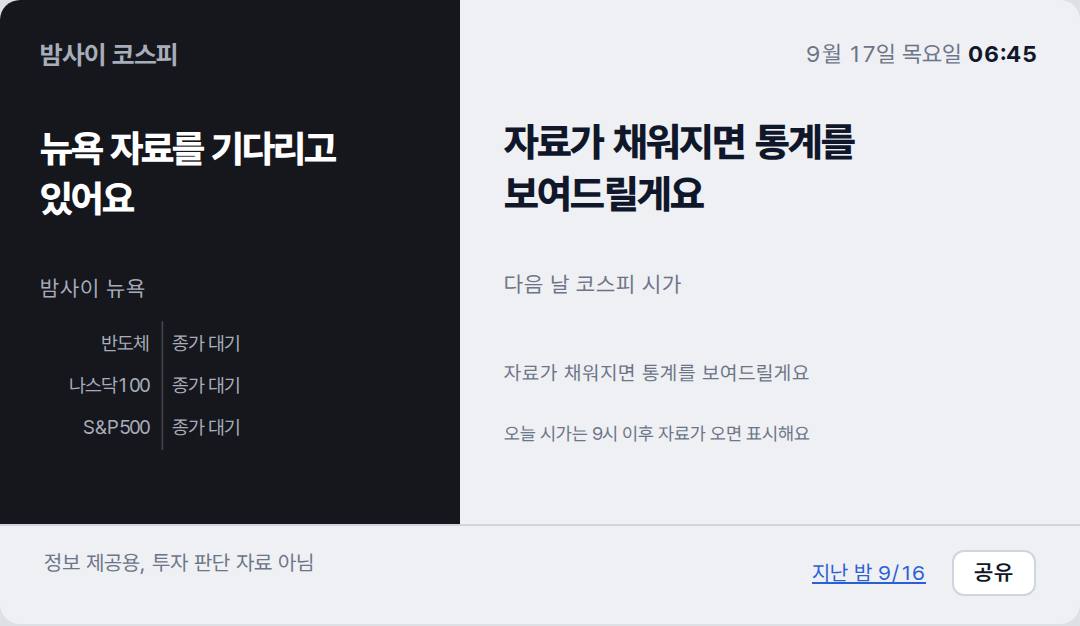
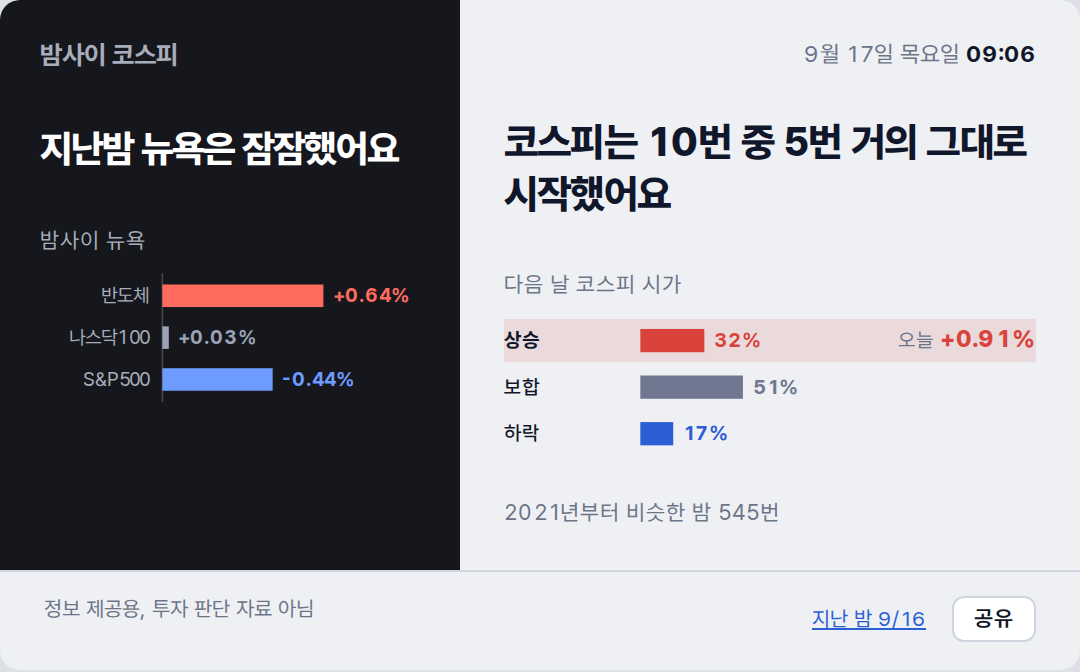
deploy: 25a71b42164be134cda9a9bcc22c21e8d2dd8ef2

diff --git a/2026-09-17/index.html b/2026-09-17/index.html
@@ -2,7 +2,7 @@
 <title>밤사이 코스피 · 2026-09-17</title>
 <meta name="description" content="전일 코스피 마감에서 밤사이 뉴욕을 거쳐 오늘 코스피 시가까지, 한 장.">
 <meta property="og:type" content="article"><meta property="og:site_name" content="밤사이 코스피"><meta property="og:url" content="https://mjs0611.github.io/kospi-relay/2026-09-17/">
-<meta property="og:title" content="뉴욕 자료를 기다리고 있어요"><meta property="og:description" content="자료가 채워지면 통계를 보여드릴게요">
+<meta property="og:title" content="지난밤 뉴욕은 잠잠했어요"><meta property="og:description" content="코스피는 10번 중 5번 거의 그대로 시작했어요">
 <meta property="og:image" content="https://mjs0611.github.io/kospi-relay/2026-09-17/relay.png"><meta property="og:image:width" content="1080"><meta name="twitter:card" content="summary_large_image">
 <link rel="stylesheet" href="https://cdn.jsdelivr.net/gh/orioncactus/pretendard@v1.3.9/dist/web/variable/pretendardvariable-dynamic-subset.min.css">
 <style>
@@ -26,24 +26,36 @@ footer a{color:#2C5FD6}
 .share{margin-left:10px;border:1px solid #CFD5DE;background:#FFF;color:#10172A;border-radius:6px;padding:4px 10px;font:600 11px var(--sans);cursor:pointer}
 @media (max-width:480px){.sheet{grid-template-columns:1fr}.cond{margin-top:18px}.claim{margin-top:4px}}
 </style></head><body><div class="sheet">
-<section class="night"><p class="brand">밤사이 코스피</p><p class="cond">뉴욕 자료를 기다리고 있어요</p><p class="lab">밤사이 뉴욕</p><svg viewBox="0 0 236 84" xmlns="http://www.w3.org/2000/svg" font-family="var(--sans)" font-size="12">
+<section class="night"><p class="brand">밤사이 코스피</p><p class="cond">지난밤 뉴욕은 잠잠했어요</p><p class="lab">밤사이 뉴욕</p><svg viewBox="0 0 236 84" xmlns="http://www.w3.org/2000/svg" font-family="var(--sans)" font-size="12">
 <line x1="76" y1="2" x2="76" y2="82" stroke="var(--rule)" stroke-width="1"/>
 <text x="68" y="20" text-anchor="end" fill="var(--muted)">반도체</text>
-<text x="82" y="20" fill="var(--muted)">종가 대기</text>
+<rect x="76" y="9" width="100.0" height="14" fill="var(--up)"/>
+<text x="182.0" y="20" fill="var(--up)" font-weight="700">+0.64%</text>
 <text x="68" y="46" text-anchor="end" fill="var(--muted)">나스닥100</text>
-<text x="82" y="46" fill="var(--muted)">종가 대기</text>
+<rect x="76" y="35" width="4.0" height="14" fill="var(--flat)"/>
+<text x="86.0" y="46" fill="var(--flat)" font-weight="700">+0.03%</text>
 <text x="68" y="72" text-anchor="end" fill="var(--muted)">S&P500</text>
-<text x="82" y="72" fill="var(--muted)">종가 대기</text>
+<rect x="76" y="61" width="68.5" height="14" fill="var(--down)"/>
+<text x="150.5" y="72" fill="var(--down)" font-weight="700">-0.44%</text>
 </svg></section>
-<section class="day"><p class="stamp">9월 17일 목요일 <b>06:45</b></p><p class="claim">자료가 채워지면 통계를 보여드릴게요</p><p class="lab">다음 날 코스피 시가</p><svg viewBox="0 0 320 100" xmlns="http://www.w3.org/2000/svg" font-family="var(--sans)" font-size="12">
-<text x="0" y="40" fill="var(--muted)">자료가 채워지면 통계를 보여드릴게요</text>
-<text x="0" y="76" fill="var(--muted)" font-size="11">오늘 시가는 9시 이후 자료가 오면 표시해요</text>
-</svg></section>
+<section class="day"><p class="stamp">9월 17일 목요일 <b>09:06</b></p><p class="claim">코스피는 10번 중 5번 거의 그대로 시작했어요</p><p class="lab">다음 날 코스피 시가</p><svg viewBox="0 0 320 100" xmlns="http://www.w3.org/2000/svg" font-family="var(--sans)" font-size="12">
+<rect x="0" y="3" width="320" height="26" fill="var(--up)" opacity=".12"/>
+<text x="0" y="20" fill="var(--ink)" font-weight="700">상승</text>
+<rect x="82" y="9" width="38.5" height="14" fill="var(--up)"/>
+<text x="126.5" y="20" fill="var(--up)" font-weight="700">32%</text>
+<text x="320" y="20" text-anchor="end" fill="var(--ink)"><tspan fill="var(--muted)">오늘 </tspan><tspan font-weight="800" font-size="14" fill="var(--up)">+0.91%</tspan></text>
+<text x="0" y="48" fill="var(--ink)" font-weight="500">보합</text>
+<rect x="82" y="37" width="61.7" height="14" fill="var(--flat)"/>
+<text x="149.7" y="48" fill="var(--flat)" font-weight="700">51%</text>
+<text x="0" y="76" fill="var(--ink)" font-weight="500">하락</text>
+<rect x="82" y="65" width="19.8" height="14" fill="var(--down)"/>
+<text x="107.8" y="76" fill="var(--down)" font-weight="700">17%</text>
+</svg><p class="cap">2021년부터 비슷한 밤 545번</p></section>
 <footer><span>정보 제공용, 투자 판단 자료 아님</span><span style="white-space:nowrap"><a href="../2026-09-16/">지난 밤 9/16</a> <button class="share" type="button">공유</button></span></footer>
 <script>
 /* 공유: Web Share가 있으면 시스템 공유 시트, 없으면 링크 복사. 링크는 이 날짜 페이지(OG 카드 붙음) */
 document.querySelector('.share').addEventListener('click', async function () {
-  var url = 'https://mjs0611.github.io/kospi-relay/2026-09-17/', text = "뉴욕 자료를 기다리고 있어요. 자료가 채워지면 통계를 보여드릴게요";
+  var url = 'https://mjs0611.github.io/kospi-relay/2026-09-17/', text = "지난밤 뉴욕은 잠잠했어요. 코스피는 10번 중 5번 거의 그대로 시작했어요";
   try { if (navigator.share) { await navigator.share({ title: '밤사이 코스피', text: text, url: url }); return; } } catch (e) { return; }
   try { await navigator.clipboard.writeText(text + '
 ' + url); this.textContent = '링크 복사됨'; } catch (e) { location.href = url; }

diff --git a/index.html b/index.html
@@ -2,7 +2,7 @@
 <title>밤사이 코스피 · 2026-09-17</title>
 <meta name="description" content="전일 코스피 마감에서 밤사이 뉴욕을 거쳐 오늘 코스피 시가까지, 한 장.">
 <meta property="og:type" content="article"><meta property="og:site_name" content="밤사이 코스피"><meta property="og:url" content="https://mjs0611.github.io/kospi-relay/2026-09-17/">
-<meta property="og:title" content="뉴욕 자료를 기다리고 있어요"><meta property="og:description" content="자료가 채워지면 통계를 보여드릴게요">
+<meta property="og:title" content="지난밤 뉴욕은 잠잠했어요"><meta property="og:description" content="코스피는 10번 중 5번 거의 그대로 시작했어요">
 <meta property="og:image" content="https://mjs0611.github.io/kospi-relay/2026-09-17/relay.png"><meta property="og:image:width" content="1080"><meta name="twitter:card" content="summary_large_image">
 <link rel="stylesheet" href="https://cdn.jsdelivr.net/gh/orioncactus/pretendard@v1.3.9/dist/web/variable/pretendardvariable-dynamic-subset.min.css">
 <style>
@@ -26,24 +26,36 @@ footer a{color:#2C5FD6}
 .share{margin-left:10px;border:1px solid #CFD5DE;background:#FFF;color:#10172A;border-radius:6px;padding:4px 10px;font:600 11px var(--sans);cursor:pointer}
 @media (max-width:480px){.sheet{grid-template-columns:1fr}.cond{margin-top:18px}.claim{margin-top:4px}}
 </style></head><body><div class="sheet">
-<section class="night"><p class="brand">밤사이 코스피</p><p class="cond">뉴욕 자료를 기다리고 있어요</p><p class="lab">밤사이 뉴욕</p><svg viewBox="0 0 236 84" xmlns="http://www.w3.org/2000/svg" font-family="var(--sans)" font-size="12">
+<section class="night"><p class="brand">밤사이 코스피</p><p class="cond">지난밤 뉴욕은 잠잠했어요</p><p class="lab">밤사이 뉴욕</p><svg viewBox="0 0 236 84" xmlns="http://www.w3.org/2000/svg" font-family="var(--sans)" font-size="12">
 <line x1="76" y1="2" x2="76" y2="82" stroke="var(--rule)" stroke-width="1"/>
 <text x="68" y="20" text-anchor="end" fill="var(--muted)">반도체</text>
-<text x="82" y="20" fill="var(--muted)">종가 대기</text>
+<rect x="76" y="9" width="100.0" height="14" fill="var(--up)"/>
+<text x="182.0" y="20" fill="var(--up)" font-weight="700">+0.64%</text>
 <text x="68" y="46" text-anchor="end" fill="var(--muted)">나스닥100</text>
-<text x="82" y="46" fill="var(--muted)">종가 대기</text>
+<rect x="76" y="35" width="4.0" height="14" fill="var(--flat)"/>
+<text x="86.0" y="46" fill="var(--flat)" font-weight="700">+0.03%</text>
 <text x="68" y="72" text-anchor="end" fill="var(--muted)">S&P500</text>
-<text x="82" y="72" fill="var(--muted)">종가 대기</text>
+<rect x="76" y="61" width="68.5" height="14" fill="var(--down)"/>
+<text x="150.5" y="72" fill="var(--down)" font-weight="700">-0.44%</text>
 </svg></section>
-<section class="day"><p class="stamp">9월 17일 목요일 <b>06:45</b></p><p class="claim">자료가 채워지면 통계를 보여드릴게요</p><p class="lab">다음 날 코스피 시가</p><svg viewBox="0 0 320 100" xmlns="http://www.w3.org/2000/svg" font-family="var(--sans)" font-size="12">
-<text x="0" y="40" fill="var(--muted)">자료가 채워지면 통계를 보여드릴게요</text>
-<text x="0" y="76" fill="var(--muted)" font-size="11">오늘 시가는 9시 이후 자료가 오면 표시해요</text>
-</svg></section>
+<section class="day"><p class="stamp">9월 17일 목요일 <b>09:06</b></p><p class="claim">코스피는 10번 중 5번 거의 그대로 시작했어요</p><p class="lab">다음 날 코스피 시가</p><svg viewBox="0 0 320 100" xmlns="http://www.w3.org/2000/svg" font-family="var(--sans)" font-size="12">
+<rect x="0" y="3" width="320" height="26" fill="var(--up)" opacity=".12"/>
+<text x="0" y="20" fill="var(--ink)" font-weight="700">상승</text>
+<rect x="82" y="9" width="38.5" height="14" fill="var(--up)"/>
+<text x="126.5" y="20" fill="var(--up)" font-weight="700">32%</text>
+<text x="320" y="20" text-anchor="end" fill="var(--ink)"><tspan fill="var(--muted)">오늘 </tspan><tspan font-weight="800" font-size="14" fill="var(--up)">+0.91%</tspan></text>
+<text x="0" y="48" fill="var(--ink)" font-weight="500">보합</text>
+<rect x="82" y="37" width="61.7" height="14" fill="var(--flat)"/>
+<text x="149.7" y="48" fill="var(--flat)" font-weight="700">51%</text>
+<text x="0" y="76" fill="var(--ink)" font-weight="500">하락</text>
+<rect x="82" y="65" width="19.8" height="14" fill="var(--down)"/>
+<text x="107.8" y="76" fill="var(--down)" font-weight="700">17%</text>
+</svg><p class="cap">2021년부터 비슷한 밤 545번</p></section>
 <footer><span>정보 제공용, 투자 판단 자료 아님</span><span style="white-space:nowrap"><a href="./2026-09-16/">지난 밤 9/16</a> <button class="share" type="button">공유</button></span></footer>
 <script>
 /* 공유: Web Share가 있으면 시스템 공유 시트, 없으면 링크 복사. 링크는 이 날짜 페이지(OG 카드 붙음) */
 document.querySelector('.share').addEventListener('click', async function () {
-  var url = 'https://mjs0611.github.io/kospi-relay/2026-09-17/', text = "뉴욕 자료를 기다리고 있어요. 자료가 채워지면 통계를 보여드릴게요";
+  var url = 'https://mjs0611.github.io/kospi-relay/2026-09-17/', text = "지난밤 뉴욕은 잠잠했어요. 코스피는 10번 중 5번 거의 그대로 시작했어요";
   try { if (navigator.share) { await navigator.share({ title: '밤사이 코스피', text: text, url: url }); return; } } catch (e) { return; }
   try { await navigator.clipboard.writeText(text + '
 ' + url); this.textContent = '링크 복사됨'; } catch (e) { location.href = url; }
